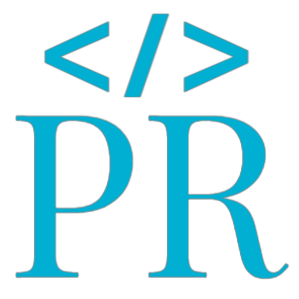
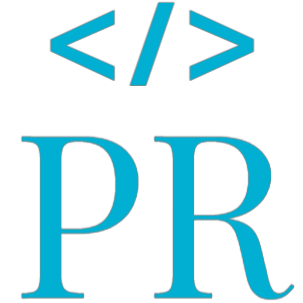
Changed contact page buttons on hover

diff --git a/src/components/Contact.js b/src/components/Contact.js
@@ -41,7 +41,7 @@ export default function Contact() {
             <div className='flex justify-center py-6'>
 
                 <a href="https://leetcode.com/PearlRathour/" target="_blank" rel="noreferrer">
-                    <button type="button" className="text-white hover:bg-[#FFA116] rounded-sm p-3 text-center inline-flex items-center mr-3 my-1.5 hover:glow" style={{ '--glow-color': '#FFA116' }}>
+                    <button type="button" className="text-white hover:text-[#FFA116] rounded-sm p-3 text-center inline-flex items-center mr-3 my-1.5">
                         <svg class="h-5 w-5" aria-hidden="true" xmlns="http://www.w3.org/2000/svg" fill="currentColor" viewBox="0 0 24 24">
                             <path fill-rule="evenodd" d="M13.483 0a1.374 1.374 0 0 0-.961.438L7.116 6.226l-3.854 4.126a5.266 5.266 0 0 0-1.209 2.104 5.35 5.35 0 0 0-.125.513 5.527 5.527 0 0 0 .062 2.362 5.83 5.83 0 0 0 .349 1.017 5.938 5.938 0 0 0 1.271 1.818l4.277 4.193.039.038c2.248 2.165 5.852 2.133 8.063-.074l2.396-2.392c.54-.54.54-1.414.003-1.955a1.378 1.378 0 0 0-1.951-.003l-2.396 2.392a3.021 3.021 0 0 1-4.205.038l-.02-.019-4.276-4.193c-.652-.64-.972-1.469-.948-2.263a2.68 2.68 0 0 1 .066-.523 2.545 2.545 0 0 1 .619-1.164L9.13 8.114c1.058-1.134 3.204-1.27 4.43-.278l3.501 2.831c.593.48 1.461.387 1.94-.207a1.384 1.384 0 0 0-.207-1.943l-3.5-2.831c-.8-.647-1.766-1.045-2.774-1.202l2.015-2.158A1.384 1.384 0 0 0 13.483 0zm-2.866 12.815a1.38 1.38 0 0 0-1.38 1.382 1.38 1.38 0 0 0 1.38 1.382H20.79a1.38 1.38 0 0 0 1.38-1.382 1.38 1.38 0 0 0-1.38-1.382z" clip-rule="evenodd" />
 
@@ -51,7 +51,7 @@ export default function Contact() {
                 </a>
 
                 <a href="https://www.linkedin.com/in/pearlrathour/">
-                    <button type="button" class="text-white hover:bg-[#0077b5] rounded-sm p-3 inline-flex items-center text-center mr-3 my-1.5 hover:glow" style={{ '--glow-color': '#0077b5' }}>
+                    <button type="button" class="text-white hover:text-[#0077b5] rounded-sm p-3 inline-flex items-center text-center mr-3 my-1.5">
                         <svg xmlns="http://www.w3.org/2000/svg" class="h-5 w-5" fill="currentColor" viewBox="0 0 24 24">
                             <path d="M4.98 3.5c0 1.381-1.11 2.5-2.48 2.5s-2.48-1.119-2.48-2.5c0-1.38 1.11-2.5 2.48-2.5s2.48 1.12 2.48 2.5zm.02 4.5h-5v16h5v-16zm7.982 0h-4.968v16h4.969v-8.399c0-4.67 6.029-5.052 6.029 0v8.399h4.988v-10.131c0-7.88-8.922-7.593-11.018-3.714v-2.155z" />
                         </svg>
@@ -59,7 +59,7 @@ export default function Contact() {
                 </a>
 
                 <a href="mailto:pearl.rathour33@gmail.com">
-                    <button type="button" class="text-white hover:bg-[#ea4335] rounded-sm p-3 text-center inline-flex items-center mr-3 my-1.5 hover:glow" style={{ '--glow-color': '#ea4335' }}>
+                    <button type="button" class="text-white hover:text-[#ea4335] rounded-sm p-3 text-center inline-flex items-center mr-3 my-1.5">
                         <svg class="h-5 w-5" aria-hidden="true" xmlns="http://www.w3.org/2000/svg" fill="currentColor" viewBox="0 0 18 18">
                             <path fill-rule="evenodd" d="M8.842 18.083a8.8 8.8 0 0 1-8.65-8.948 8.841 8.841 0 0 1 8.8-8.652h.153a8.464 8.464 0 0 1 5.7 2.257l-2.193 2.038A5.27 5.27 0 0 0 9.09 3.4a5.882 5.882 0 0 0-.2 11.76h.124a5.091 5.091 0 0 0 5.248-4.057L14.3 11H9V8h8.34c.066.543.095 1.09.088 1.636-.086 5.053-3.463 8.449-8.4 8.449l-.186-.002Z" clip-rule="evenodd" />
                         </svg>
@@ -67,7 +67,7 @@ export default function Contact() {
                 </a>
 
                 <a href="https://github.com/pearlrathour">
-                    <button type="button" class="text-white hover:bg-[#333] rounded-sm p-3 text-center inline-flex items-center mr-3 my-1.5 hover:glow" style={{ '--glow-color': 'gray' }}>
+                    <button type="button" class="text-white hover:text-[#333] rounded-sm p-3 text-center inline-flex items-center mr-3 my-1.5">
                         <svg xmlns="http://www.w3.org/2000/svg" class="h-5 w-5" fill="currentColor" viewBox="0 0 24 24">
                             <path d="M12 0c-6.626 0-12 5.373-12 12 0 5.302 3.438 9.8 8.207 11.387.599.111.793-.261.793-.577v-2.234c-3.338.726-4.033-1.416-4.033-1.416-.546-1.387-1.333-1.756-1.333-1.756-1.089-.745.083-.729.083-.729 1.205.084 1.839 1.237 1.839 1.237 1.07 1.834 2.807 1.304 3.492.997.107-.775.418-1.305.762-1.604-2.665-.305-5.467-1.334-5.467-5.931 0-1.311.469-2.381 1.236-3.221-.124-.303-.535-1.524.117-3.176 0 0 1.008-.322 3.301 1.23.957-.266 1.983-.399 3.003-.404 1.02.005 2.047.138 3.006.404 2.291-1.552 3.297-1.23 3.297-1.23.653 1.653.242 2.874.118 3.176.77.84 1.235 1.911 1.235 3.221 0 4.609-2.807 5.624-5.479 5.921.43.372.823 1.102.823 2.222v3.293c0 .319.192.694.801.576 4.765-1.589 8.199-6.086 8.199-11.386 0-6.627-5.373-12-12-12z" />
                         </svg>
@@ -75,7 +75,7 @@ export default function Contact() {
                 </a>
 
                 <a href="https://www.instagram.com/pearlrathour/">
-                    <button type="button" class="text-white hover:bg-[#c13584] rounded-sm p-3 text-center inline-flex items-center mr-3 my-1.5 hover:glow" style={{ '--glow-color': '#c13584' }}>
+                    <button type="button" class="text-white hover:text-[#c13584] rounded-sm p-3 text-center inline-flex items-center mr-3 my-1.5">
                         <svg xmlns="http://www.w3.org/2000/svg" class="h-5 w-5" fill="currentColor" viewBox="0 0 24 24">
                             <path d="M12 2.163c3.204 0 3.584.012 4.85.07 3.252.148 4.771 1.691 4.919 4.919.058 1.265.069 1.645.069 4.849 0 3.205-.012 3.584-.069 4.849-.149 3.225-1.664 4.771-4.919 4.919-1.266.058-1.644.07-4.85.07-3.204 0-3.584-.012-4.849-.07-3.26-.149-4.771-1.699-4.919-4.92-.058-1.265-.07-1.644-.07-4.849 0-3.204.013-3.583.07-4.849.149-3.227 1.664-4.771 4.919-4.919 1.266-.057 1.645-.069 4.849-.069zm0-2.163c-3.259 0-3.667.014-4.947.072-4.358.2-6.78 2.618-6.98 6.98-.059 1.281-.073 1.689-.073 4.948 0 3.259.014 3.668.072 4.948.2 4.358 2.618 6.78 6.98 6.98 1.281.058 1.689.072 4.948.072 3.259 0 3.668-.014 4.948-.072 4.354-.2 6.782-2.618 6.979-6.98.059-1.28.073-1.689.073-4.948 0-3.259-.014-3.667-.072-4.947-.196-4.354-2.617-6.78-6.979-6.98-1.281-.059-1.69-.073-4.949-.073zm0 5.838c-3.403 0-6.162 2.759-6.162 6.162s2.759 6.163 6.162 6.163 6.162-2.759 6.162-6.163c0-3.403-2.759-6.162-6.162-6.162zm0 10.162c-2.209 0-4-1.79-4-4 0-2.209 1.791-4 4-4s4 1.791 4 4c0 2.21-1.791 4-4 4zm6.406-11.845c-.796 0-1.441.645-1.441 1.44s.645 1.44 1.441 1.44c.795 0 1.439-.645 1.439-1.44s-.644-1.44-1.439-1.44z" />
                         </svg>
@@ -83,16 +83,16 @@ export default function Contact() {
                 </a>
 
                 <a href="https://twitter.com/PearlRathour">
-                    <button type="button" class="text-white hover:bg-[#1da1f2] rounded-sm p-3 text-center inline-flex items-center mr-3 my-1.5 hover:glow" style={{ '--glow-color': '#1da1f2' }}>
-                        <svg class="h-5 w-5" aria-hidden="true" xmlns="http://www.w3.org/2000/svg" fill="currentColor" viewBox="0 0 20 15">
-                            <path fill-rule="evenodd" d="M20 1.892a8.178 8.178 0 0 1-2.355.635 4.074 4.074 0 0 0 1.8-2.235 8.344 8.344 0 0 1-2.605.98A4.13 4.13 0 0 0 13.85 0a4.068 4.068 0 0 0-4.1 4.038 4 4 0 0 0 .105.919A11.705 11.705 0 0 1 1.4.734a4.006 4.006 0 0 0 1.268 5.392 4.165 4.165 0 0 1-1.859-.5v.05A4.057 4.057 0 0 0 4.1 9.635a4.19 4.19 0 0 1-1.856.07 4.108 4.108 0 0 0 3.831 2.807A8.36 8.36 0 0 1 0 14.184 11.732 11.732 0 0 0 6.291 16 11.502 11.502 0 0 0 17.964 4.5c0-.177 0-.35-.012-.523A8.143 8.143 0 0 0 20 1.892Z" clip-rule="evenodd" />
+                    <button type="button" class="text-white hover:text-[rgb(231, 233, 234)] rounded-sm p-3 text-center inline-flex items-center mr-3 my-1.5">
+                        <svg class="h-5 w-5" aria-hidden="true" xmlns="http://www.w3.org/2000/svg" fill="currentColor" viewBox="0 0 24 24">
+                            <path fill-rule="evenodd" d="M18.244 2.25h3.308l-7.227 8.26 8.502 11.24H16.17l-5.214-6.817L4.99 21.75H1.68l7.73-8.835L1.254 2.25H8.08l4.713 6.231zm-1.161 17.52h1.833L7.084 4.126H5.117z" clip-rule="evenodd" />
                         </svg>
                     </button>
                 </a>
 
 
                 <a href="https://www.codechef.com/users/pearlrathour" target="_blank" rel="noreferrer">
-                    <button type="button" className="text-white hover:bg-[#d38334e0] rounded-sm p-3 text-center inline-flex items-center mr-3 my-1.5 hover:glow" style={{ '--glow-color': '#FFA116' }}>
+                    <button type="button" className="text-white hover:text-[#d38334e0] rounded-sm p-3 text-center inline-flex items-center mr-3 my-1.5">
                         <svg class="h-5 w-5" aria-hidden="true" xmlns="http://www.w3.org/2000/svg" fill="currentColor" viewBox="0 0 24 24">
                             <path fill-rule="evenodd" d="M11.2574.0039c-.37.0101-.7353.041-1.1003.095C9.6164.153 9.0766.4236 8.482.694c-.757.3244-1.5147.6486-2.2176.7027-1.1896.3785-1.568.919-1.8925 1.3516 0 .054-.054.1079-.054.1079-.4325.865-.4873 1.73-.325 2.5952.1621.5407.3786 1.0282.5408 1.5148.3785 1.0274.7578 2.0007.92 3.1362.1622.3244.3235.7571.4316 1.1897.2704.8651.542 1.8383 1.353 2.5952l.0057-.0028c.0175.0183.0301.0387.0482.0568.0072-.0036.0141-.0063.0213-.0099l-.0213-.5849c.6489-.9733 1.5673-1.6221 2.865-1.8925.5195-.1093 1.081-.1497 1.6625-.1278a8.7733 8.7733 0 0 1 1.7988.2357c1.4599.3785 2.595 1.1358 2.6492 1.7846.0273.3549.0398.6952.0326 1.0364-.001.064-.0046.1285-.007.193l.1362.0682c.075-.0375.1424-.107.2059-.1902.0008-.001.002-.002.0028-.0028.0018-.0023.0039-.0061.0057-.0085.0396-.0536.0747-.1236.1107-.1931.0188-.0377.0372-.0866.0554-.1292.2048-.4622.362-1.1536.538-1.9635.0541-.2703.1092-.4864.1633-.7027.4326-.9733 1.0266-1.8382 1.6213-2.6492.9733-1.3518 1.8928-2.5962 1.7846-4.0561-1.784-3.4608-4.2718-4.0017-5.5695-4.272-.2163-.0541-.3233-.0539-.4856-.108-1.3382-.2433-2.4945-.3953-3.6046-.3648zm5.0428 14.3788a9.8602 9.8602 0 0 0-.0326-.9824c-.0541-.703-1.1892-1.46-2.7032-1.8386-.588-.1336-1.1764-.2142-1.7448-.2356-.539-.0137-1.0657.0248-1.5546.1277-1.2436.2704-2.2162.9193-2.811 1.8925l.0511 1.431c.6672-.3558 1.7326-.8747 3.139-.9994.0662-.0059.1368-.0059.2044-.0099.1177-.013.2667-.044.4444-.044 1.6075 0 3.2682.5336 4.8767 1.6483.039-.2744.0611-.549.071-.8234l.044.0227c.0028-.0622.0143-.1268.0156-.1888zM11.256.0578c.1239-.0034.2538.01.379.0114-.23-.0022-.4588.0026-.6871.0156.103-.0061.2046-.0242.308-.027zm.4983.0156c.6552.014 1.3255.0711 2.0387.1803-.6834-.0987-1.3646-.1671-2.0387-.1803zm-1.3147.0554c-.076.0087-.1527.0133-.2285.0241-.8168.1167-1.7742.7015-2.75 1.045.3545-.1323.7143-.2957 1.0747-.4501C9.0765.4774 9.6705.207 10.1571.1529c.0939-.0139.1886-.0133.2825-.0241zm-.2285.24c.1622 0 .3787-.0002.5409.0539-.1425-.0357-.2595-.026-.3706-.0142a1.174 1.174 0 0 1 .3166.0681c.5796 1.0012-.4264 5.2791-.6786 8.1492.1559 1.0276.3138 1.9963.4628 2.7201-.7029-1.7843-1.4067-4.921-1.5148-7.354-.054-.9733.001-1.8386.2172-2.4874C9.401.8557 9.7244.4228 10.2111.3687zm3.1361.271c-.811 2.1088-.9184 6.1092-.9725 7.3528-.054.5407-.0001 1.73.054 2.5952 0 .2163.054.4325.054.6488 0-.2163-.054-.3786-.054-.5948-.4326-3.2442-.974-7.1362.9185-10.002zm3.352.3777c-.2704 2.1628-1.4047 3.191-1.7832 5.2998-.1081 1.6762-.325 3.6222-.379 5.2984-.0541-1.6762-.0007-3.4601.2697-5.2444.2703-1.8384.8651-3.6776 1.8925-5.3538zm-10.381.433c-.3581.1194-.632.248-.8575.3805.2317-.1358.4996-.2666.8575-.3805zm.2101.1974c.2155.0025.4384.0734.6006.2357-.0067-.004-.0078-.0033-.0142-.0071.1331.0929.2666.2093.3932.3847-.2036.9673.2553 3.0317.0398 4.6694.0763 1.5485.0717 3.1804.849 4.4594-.9796-1.5107-1.176-3.4375-1.3218-5.236-.1128-1.0907-.2035-2.0969-.4642-2.9033-.144-.3047-.2684-.5745-.3833-.822-.0247-.0369-.0447-.0784-.071-.1135-.1082-.1082-.1619-.2696-.1619-.3777 0-.054.0539-.1618.108-.1618.054-.0541.1616-.0553.2157-.1094a1.013 1.013 0 0 1 .2101-.0184zm-1.3459.6133c-.0604.0201-.0923.041-.1405.061.1768-.034.3617.0339.5196.318-.1877.8916.4364 3.3685.4288 5.104.3124 1.8478.5496 3.8498 1.5716 5.1152C6.3723 11.5076 5.886 9.1286 5.5076 7.128 5.183 5.56 4.9125 4.2086 4.3718 3.776c-.054-.1081-.1079-.163-.1079-.2711 0-.1622-.0002-.3786.1079-.5949-.2772.6337-.4047 1.2673-.3706 1.901-.0445-.6487.0857-1.2905.3706-1.901 0-.054.054-.0538.054-.1079.012-.016.0314-.0349.044-.0511.0618-.0983.1308-.189.2257-.257.0557-.0615.0965-.1191.159-.1817-.0526.0555-.0872.1092-.1335.1647.0273-.018.0523-.0368.0838-.0525.1081-.1082.2154-.1633.3776-.1633zm-.3776.1633c-.0038.0075-.0076.0111-.0114.0184.0125-.0099.0242-.0208.037-.0298-.0074.0037-.0182.0077-.0256.0114zm14.7608 1.1343c-.0017.0052-.004.0104-.0057.0156.0378-.005.0751-.0173.1135-.0156-.0378-.0022-.0763.0103-.115.0199-.8634 2.6418-1.8874 5.2844-2.9118 7.9262a.0184.0184 0 0 1-.0015.0028c-.0874.4652-.234.8842-.5395 1.1898.4326-.4867.4854-1.1907.5395-2.0558.054-.811.0544-1.6761.487-2.5413 0-.0531.0012-.1058.0525-.159.0003-.0009.0012-.0019.0015-.0028.0973-.3524.202-.6885.3166-1.018.4183-1.2896 1.1396-3.1653 2.0131-3.3405.0163-.0052.034-.018.0497-.0213zM8.3726 16.2113l-.3238.1079c.1623.2163.2696.379.3777.433.1081.054.2168.108.379.108.0541 0 .1618 0 .2159-.054l.812-.2698c.0541 0 .1078-.054.1619-.054.1081 0 .1616 0 .2697.054l.2712.2698.2697-.054c-.1081-.1622-.2695-.3236-.3776-.3776-.1082-.0541-.2169-.1094-.379-.1094h-.108l-.866.3252h-.1618c-.1082 0-.2157 0-.2698-.054-.054-.054-.163-.1629-.2712-.3251zm-2.5953.541c-.2703.1621-.649.4324-1.1897.6487-.5407.2163-.9734.4325-1.1897.6488-.2163.2163-.3237.4326-.3237.6488 0 .1082.0537.1632.1618.2172.054.0541.1632.0539.2172.108.757.3244 1.5133.7019 2.2162 1.0803.1082.0541.2171.1632.2712.2173.054.054.1078.054.1618.054.1082 0 .2695-.0538.3777-.162.1081-.108.1632-.217.1632-.325 0-.1082-.055-.1618-.1632-.2158 0 0-.4328-.2165-1.1898-.541-.4866-.2162-.9179-.4326-1.1883-.5948.1623-.2704.486-.4865.9726-.7028.5407-.2163.9196-.4326 1.0818-.5948.054-.0541.054-.1078.054-.1619 0-.054-.0539-.1631-.108-.2172-.054-.054-.163-.1079-.2711-.1079zm11.247 0c-.054 0-.1618.0537-.2158.1078-.0541.1081-.1093.1632-.1093.2172v.054c.1622.1622.3797.2695.7041.3776.2704.054.5403.1632.8107.2172.3244.1082.5407.2693.6488.4856v.0553c0 .0541-.1088.1616-.3251.2698-.1082.054-.3245.2167-.5949.433-.2703.1622-.4326.3236-.5948.3776-.2163.1082-.3776.217-.4316.3252-.0541.054-.054.1077-.054.1618 0 .1081.0539.1077.108.2158.054.1081.1616.1093.2157.1093.054 0 .1078-.0554.1619-.0554.2703-.1622.6492-.3782 1.0818-.7567.4866-.3784.8655-.6484 1.0818-.8106.2163-.1082.3237-.2169.3237-.379 0-.0541.0002-.1618-.1079-.2159-.3785-.4325-.9185-.7022-1.5674-.9185-.1081-.0541-.2704-.1092-.5948-.1633-.1622-.054-.3249-.1079-.433-.1079zm-2.9743.8106c-.2704 0-.4866.055-.6488.2172-.2163.1622-.2699.4323-.2158.7567 0 .2703.1075.4865.2697.7027.1622.2163.3786.3252.5949.3252.1622 0 .2708-.0553.433-.1094.2703-.1622.379-.4319.379-.9185 0-.3785-.109-.6485-.2711-.8107-.1622-.1081-.3246-.1632-.541-.1632zm-4.4877.054c-.2704 0-.4866.055-.6488.2171-.2163.1622-.27.4323-.2158.7567 0 .2704.1075.4865.2697.7028s.3786.3251.5949.3251c.1622 0 .2708-.0552.433-.1093.2703-.1622.3776-.432.3776-.9186 0-.4325-.1075-.7025-.2697-.8106-.1622-.1082-.3247-.1633-.541-.1633zm0 .6501c.1622 0 .2711.1076.2711.2698 0 .1622-.163.2697-.2711.2697-.1622 0-.2698-.1075-.2698-.2697s.1076-.2698.2698-.2698zm4.3798.054c.1622 0 .2711.1075.2711.2697 0 .1082-.109.2698-.2711.2698-.1622 0-.2698-.1076-.2698-.2698 0-.1622.1076-.2697.2698-.2697zm-2.7032 2.1083l.1619.3237c.054.1081.1076.163.2158.2711.054.054.163.1619.2712.1619h.1078c.1082 0 .1618 0 .2158-.054.0541-.054.1632-.0538.2173-.1079l.1618-.1618c.054-.054.108-.1092.108-.1633.054-.054.0537-.1078.1078-.1618 0-.0541.054-.108.054-.108-.0541.1082-.1618.2156-.2158.3238-.1082.054-.1616.1632-.2698.1632-.1081.0541-.217.054-.3251.054s-.2157.0001-.2697-.054c-.1082 0-.1632-.0538-.2173-.1079l-.1618-.1632c-.054-.0541-.1078-.1618-.1619-.2158zm-.866 1.0278c-1.1355 0-1.8377 1.5136-3.4598.1619-.4326 2.6494 2.7583 2.866 4.11 1.7306.9192-.811.6475-1.9465-.6502-1.8925zm2.8664 0c-1.2977-.054-1.568 1.0815-.6488 1.8925 1.3518 1.1355 4.5412.9188 4.1087-1.7306-1.6221 1.3517-2.2703-.1619-3.4599-.1619z" clip-rule="evenodd" />
                         </svg>

diff --git a/src/components/home/Home.js b/src/components/home/Home.js
@@ -1,6 +1,5 @@
 import React from 'react'
 import girl from "../../assets/girl11.png";
-import leetcode from "../../assets/Leetcode.png";
 import "../../index.css";
 import Type from './Type';
 import resume from "../../assets/PearlRathour.pdf";
@@ -69,9 +68,9 @@ export default function Home() {
                             </a>
 
                             <a href="https://twitter.com/PearlRathour">
-                                <button type="button" class="text-white bg-[#1da1f2] rounded-full p-3 text-center inline-flex items-center mr-3 my-1.5 hover:glow" style={{ '--glow-color': '#1da1f2' }}>
-                                    <svg class="h-5 w-5" aria-hidden="true" xmlns="http://www.w3.org/2000/svg" fill="currentColor" viewBox="0 0 20 15">
-                                        <path fill-rule="evenodd" d="M20 1.892a8.178 8.178 0 0 1-2.355.635 4.074 4.074 0 0 0 1.8-2.235 8.344 8.344 0 0 1-2.605.98A4.13 4.13 0 0 0 13.85 0a4.068 4.068 0 0 0-4.1 4.038 4 4 0 0 0 .105.919A11.705 11.705 0 0 1 1.4.734a4.006 4.006 0 0 0 1.268 5.392 4.165 4.165 0 0 1-1.859-.5v.05A4.057 4.057 0 0 0 4.1 9.635a4.19 4.19 0 0 1-1.856.07 4.108 4.108 0 0 0 3.831 2.807A8.36 8.36 0 0 1 0 14.184 11.732 11.732 0 0 0 6.291 16 11.502 11.502 0 0 0 17.964 4.5c0-.177 0-.35-.012-.523A8.143 8.143 0 0 0 20 1.892Z" clip-rule="evenodd" />
+                                <button type="button" class="text-white bg-gray-800 rounded-full p-3 text-center inline-flex items-center mr-3 my-1.5 hover:glow" style={{ '--glow-color': 'gray' }}>
+                                    <svg class="h-5 w-5" aria-hidden="true" xmlns="http://www.w3.org/2000/svg" fill="currentColor" viewBox="0 0 24 24">
+                                        <path fill-rule="evenodd" d="M18.244 2.25h3.308l-7.227 8.26 8.502 11.24H16.17l-5.214-6.817L4.99 21.75H1.68l7.73-8.835L1.254 2.25H8.08l4.713 6.231zm-1.161 17.52h1.833L7.084 4.126H5.117z" clip-rule="evenodd" />
                                     </svg>
                                 </button>
                             </a>

diff --git a/src/components/Skills.js b/src/components/Skills.js
@@ -10,6 +10,7 @@ import tailwind from "../assets/tailwind.png";
 import nodejs from "../assets/nodejs.png";
 import express from "../assets/express.png"
 import mongodb from "../assets/mongodb.png"
+import mysql from "../assets/sql.png"
 import c from "../assets/c.png";
 import cpp from "../assets/cpp.png";
 import python from "../assets/python.png";
@@ -70,25 +71,30 @@ export default function Skills() {
     {
       id: 9,
       src: mongodb,
-      level: 20,
+      level: 40,
     },
     {
-      id: 10,
+      id:10,
+      src: mysql,
+      level: 50
+    },
+    {
+      id: 11,
       src: c,
       level: 70,
     },
     {
-      id: 11,
+      id: 12,
       src: cpp,
       level: 80,
     },
     {
-      id: 12,
+      id: 13,
       src: python,
       level: 40,
     },
     {
-      id: 13,
+      id: 14,
       src: opencv,
       level: 30,
     },
@@ -110,7 +116,7 @@ export default function Skills() {
         <span className="flex flex-col gap-3">
           {techs.map(({ id, src, level }) => (
             <div key={id} className="flex items-center w-full bg-transparent">
-              <img src={src} alt="" className="h-8 w-8 mx-4" />
+              <img src={src} alt="" className="h-7 w-7 mx-4" />
               <div className="w-96 h-5 bg-transparent">
               <div className={`h-full flex items-center bg-cyan-400 ${scroll}`} style={{ "--skill-level": `${level}%` }} >
                   <div className="text-black pl-4">{level} %</div>

diff --git a/src/components/projects/Projects.js b/src/components/projects/Projects.js
@@ -4,7 +4,7 @@ import ProjectsCard from './ProjectsCard'
 import ParkShare from '../../assets/projects/ParkShare.png'
 import NewsApp from '../../assets/projects/NewsApp.png'
 import Textify from '../../assets/projects/Textify-dark-theme.png'
-import TicTacToe from '../../assets/projects/TicTacToe.png'
+import TicTacToe from '../../assets/projects/TicTacToe2.png'
 import ComputerVision from '../../assets/projects/ComputerVision1.png'
 import ExploringThePast from '../../assets/projects/ExploringThePast1.png'
 import CampusConnect from '../../assets/projects/CampusConnect4.png'
@@ -114,7 +114,7 @@ export default function Projects() {
             Projects
           </div>
 
-          <div className="grid grid-cols-3 gap-x-0 text-gray-500 text-lg max-w-full">
+          <div className="grid grid-cols-3 grid-rows-3 gap-x-0 text-gray-500 text-lg max-w-[90%] m-auto">
             {projects.map((project) => (
               <ProjectsCard project={project} />
             ))}

diff --git a/src/components/projects/ProjectsCard.js b/src/components/projects/ProjectsCard.js
@@ -5,7 +5,7 @@ import "../../index.css";
 export default function ProjectsCard(props) {
     return (
         <div class="relative group w-full h-full border-2 border-transparent rounded-none overflow-hidden m-auto hover:border-[0.5px] hover:border-gray-400 hover:glow" style={{ '--glow-color': 'silver', '--glow-size': '1px' }}>
-            <img class="object-cover w-full h-3/4 transform duration-700 backdrop-opacity-100" src={props.project.img} />
+            <img class="object-cover w-full h-3/4 transform duration-700 backdrop-opacity-100" src={props.project.img} alt='Project'/>
             <div class="absolute w-full h-full shadow-2xl opacity-20 transform duration-500 inset-y-3/4 group-hover:-inset-y-0"></div>
                 <div class="absolute bg-gradient-to-b from-[#0f2c47] to-black w-full h-full transform duration-500 inset-y-3/4 group-hover:-inset-y-0 ">
 

diff --git a/public/index.html b/public/index.html
@@ -2,15 +2,15 @@
 <html lang="en">
   <head>
     <meta charset="utf-8" />
-    <link rel="icon" href="%PUBLIC_URL%/PR-4.png" />
+    <link rel="icon" href="%PUBLIC_URL%/PR-3.png" />
     <meta name="viewport" content="width=device-width, initial-scale=1" />
     <meta name="theme-color" content="#000000" />
     <meta
-      name="Pearl Rathours's Portfolio"
+      name="Pearl Rathour's Portfolio"
       content="Portfolio"
     />
     <meta name="Portfolio" content="React website" />
-    <link rel="apple-touch-icon" href="%PUBLIC_URL%/PR-4.png" />
+    <link rel="apple-touch-icon" href="%PUBLIC_URL%/PR-3.png" />
     <!--
       manifest.json provides metadata used when your web app is installed on a
       user's mobile device or desktop. See https://developers.google.com/web/fundamentals/web-app-manifest/

diff --git a/src/components/home/Type.js b/src/components/home/Type.js
@@ -7,7 +7,7 @@ export default function Type() {
       <div className="text-3xl font-semibold text-gray-300">
         <TypeAnimation
           sequence={[
-            'Front-end Developer ',2000,
+            'MERN Stack Developer ',2000,
             'Competitive Programmer',2000,
             'ML Enthusiast',2000,
             'ECE student',2000,

diff --git a/src/index.css b/src/index.css
@@ -169,7 +169,7 @@ body {
     transform: translateY(0);
   }
   50% {
-    transform: translateY(-12px);
+    transform: translateY(-20px);
   }
   100% {
     transform: translateY(0);
@@ -177,7 +177,7 @@ body {
 }
 
 .floating-image {
-  animation: floating 4s ease-in-out infinite;
+  animation: floating 5s ease-in-out infinite;
 }
 
 
